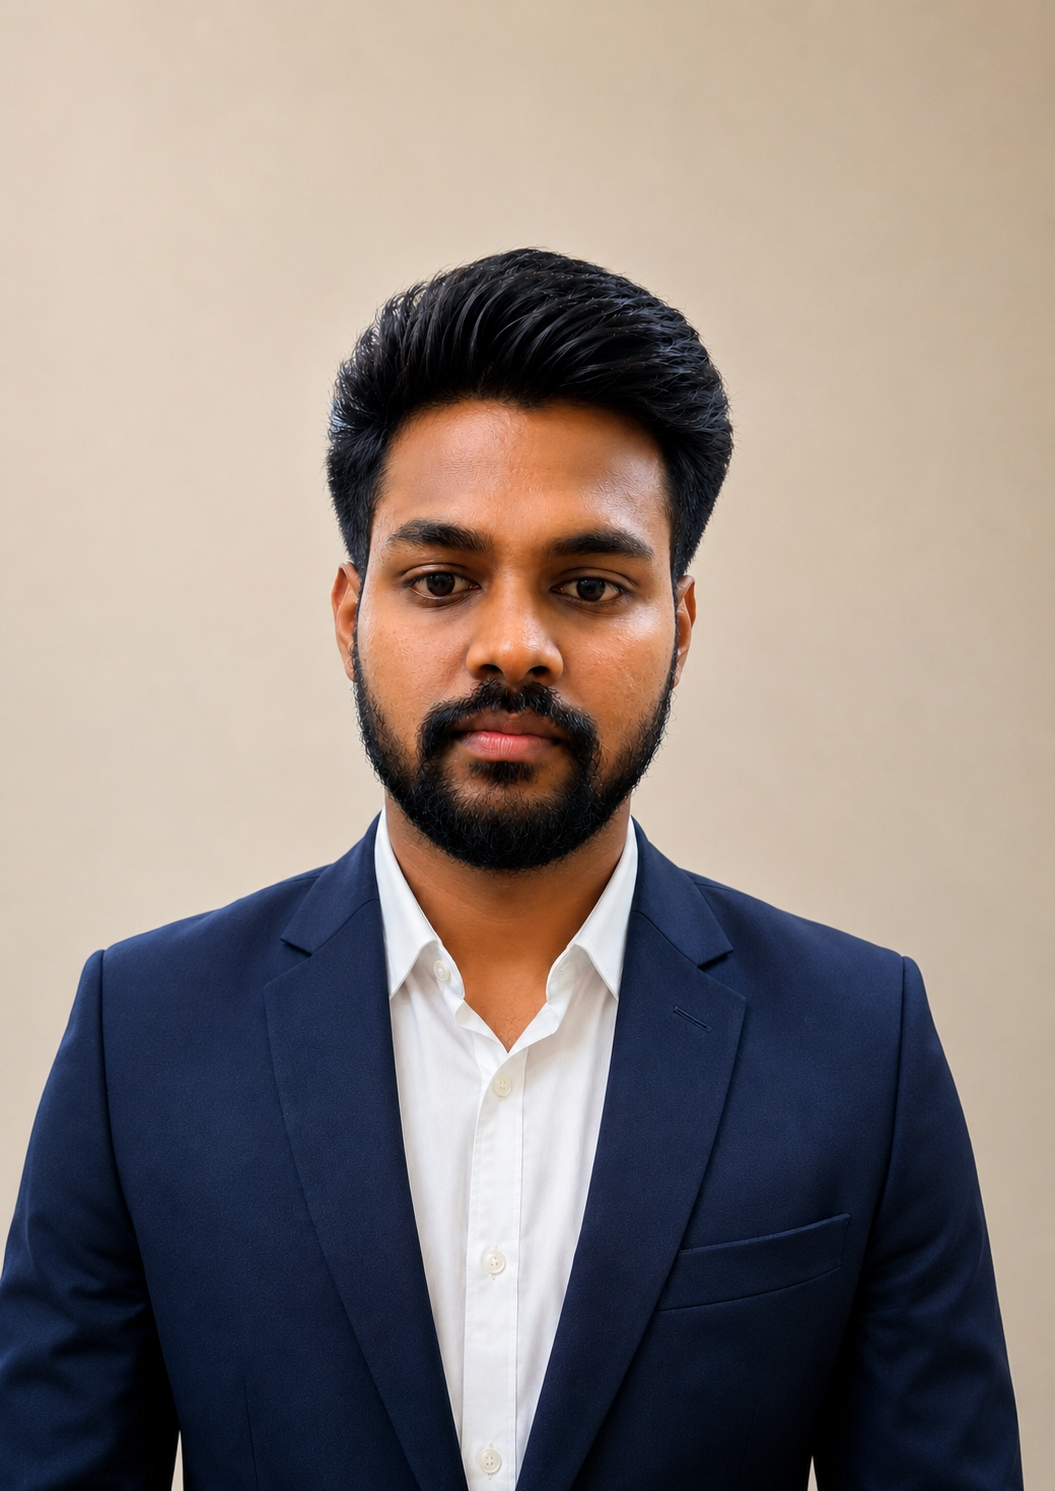
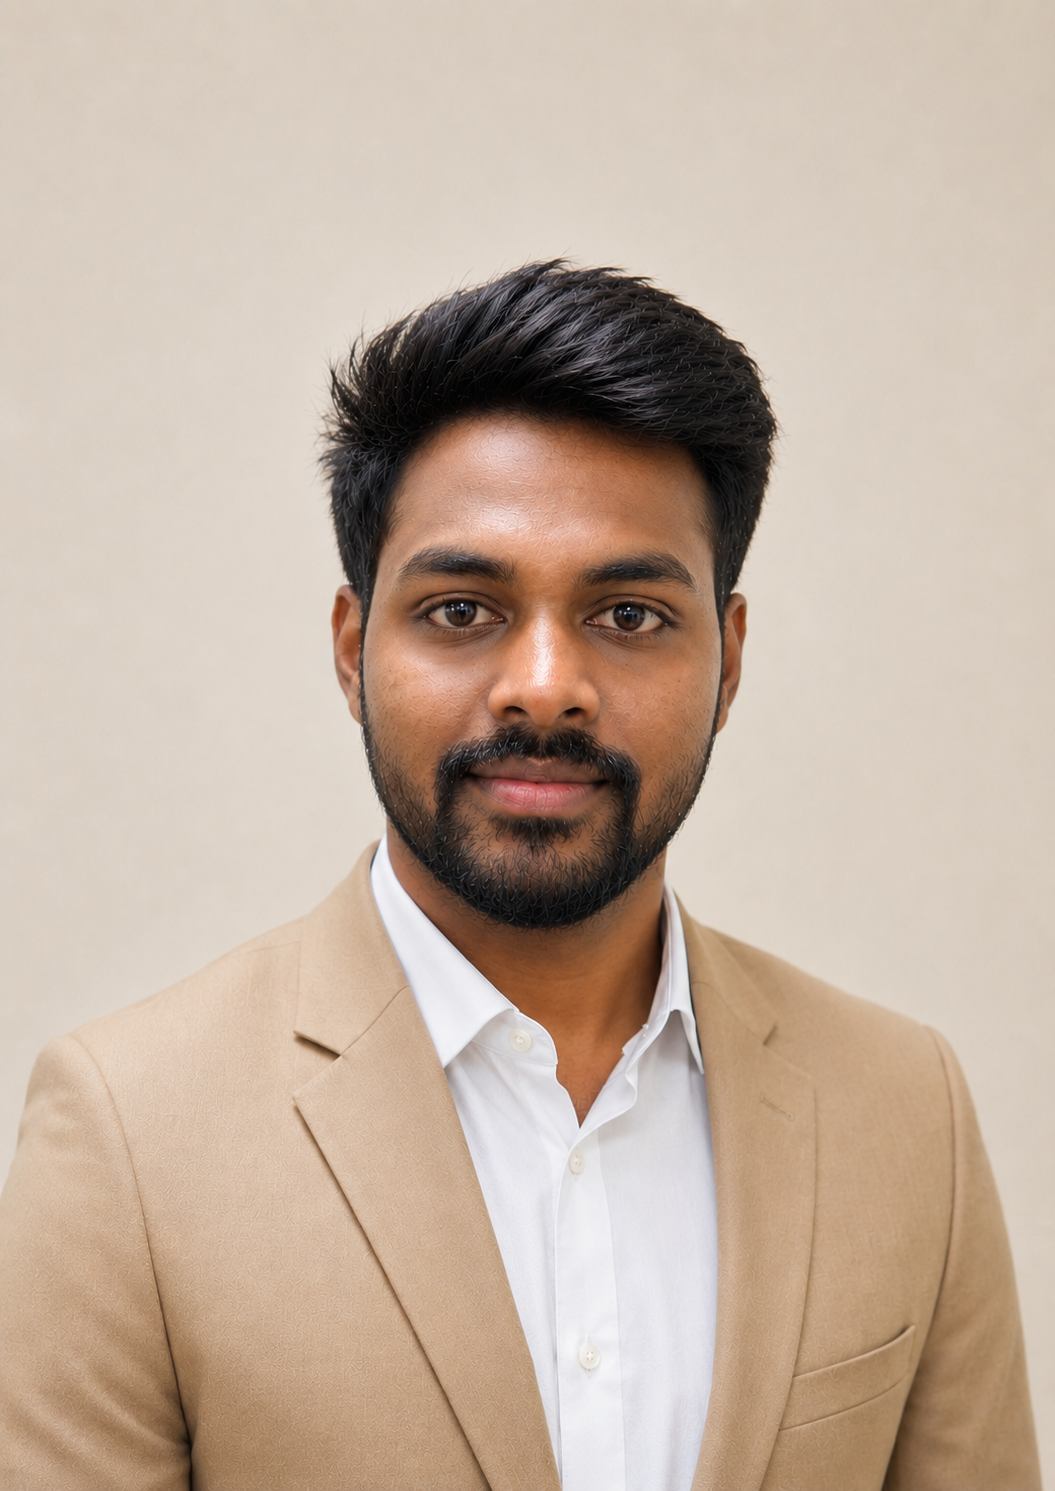
jr.webdeveloper name changes & Photos and interview dates

diff --git a/src/app/pages/faculty-recruitment/faculty-recruitment.scss b/src/app/pages/faculty-recruitment/faculty-recruitment.scss
@@ -96,3 +96,19 @@
     font-size: 3rem;
   }
 }
+
+.status-date {
+  display: inline-block;
+
+  margin-top: 15px;
+
+  background: #003366;
+  color: white;
+
+  padding: 8px 18px;
+
+  border-radius: 25px;
+
+  font-size: 14px;
+  font-weight: 500;
+}

diff --git a/src/app/pages/our-team/our-team.scss b/src/app/pages/our-team/our-team.scss
@@ -85,9 +85,9 @@
   box-shadow: 0 4px 12px rgba(0,0,0,.08);
 
   img {
-    width: 180px;
-    height: 180px;
-    border-radius: 50%;
+    width: 270px;
+    height: 300px;
+    border-radius: 8%;
     object-fit: cover;
     margin-bottom: 15px;
   }

diff --git a/src/app/pages/faculty-recruitment/faculty-recruitment.html b/src/app/pages/faculty-recruitment/faculty-recruitment.html
@@ -5,6 +5,10 @@
     <p>
       Faculty Recruitment Status
     </p>
+
+     <div class="status-date">
+    Updated as on: 27-06-2025
+  </div>
   </div>
 
   <div class="recruitment-grid">

diff --git a/src/app/pages/our-team/our-team.html b/src/app/pages/our-team/our-team.html
@@ -30,7 +30,7 @@
 
   <div class="developers-section">
 
-    <h2>JR Web Developers</h2>
+    <h2>Jr.Web Developers</h2>
 
     <div class="developer-grid">
 
@@ -40,7 +40,7 @@
 
         <img
           [src]="developer.image"
-          [alt]="developer.name">
+          [alt]="developer.name" >
 
         <h4>{{ developer.name }}</h4>
 

diff --git a/src/app/pages/our-team/our-team.ts b/src/app/pages/our-team/our-team.ts
@@ -91,12 +91,12 @@ psychology, organizational development, and human values to develop resilient in
     {
       name: 'Mr. P. Saigiri',
       role: 'Web Developer',
-      image: 'assets/images/dev2.png'
+      image: 'assets/images/dev6.png'
     },
     {
       name: 'Mr. S. Sriharivas',
       role: 'Web Developer',
-      image: 'assets/images/dev3.jpg'
+      image: 'assets/images/dev3.png'
     }
   ];
 